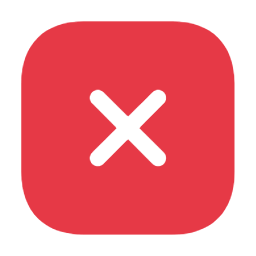
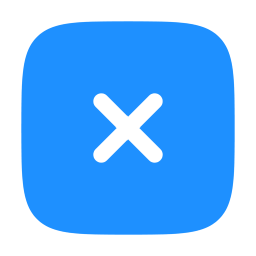
theme changed from red to blue

diff --git a/src/components/contact.jsx b/src/components/contact.jsx
@@ -17,20 +17,20 @@ const Contact = () => {
           d="M0,0V46.29c47.79,22.2,103.59,32.17,158,28,70.36-5.37,136.33-33.31,206.8-37.5C438.64,32.43,512.34,53.67,583,72.05c69.27,18,138.3,24.88,209.4,13.08,36.15-6,69.85-17.84,104.45-29.34C989.49,25,1113-14.29,1200,52.47V0Z"
           opacity=".25"
           class="shape-fill"
-          fill="#E63946"
+          fill="#1E90FF"
           fill-opacity="1"
         ></path>
         <path
           d="M0,0V15.81C13,36.92,27.64,56.86,47.69,72.05,99.41,111.27,165,111,224.58,91.58c31.15-10.15,60.09-26.07,89.67-39.8,40.92-19,84.73-46,130.83-49.67,36.26-2.85,70.9,9.42,98.6,31.56,31.77,25.39,62.32,62,103.63,73,40.44,10.79,81.35-6.69,119.13-24.28s75.16-39,116.92-43.05c59.73-5.85,113.28,22.88,168.9,38.84,30.2,8.66,59,6.17,87.09-7.5,22.43-10.89,48-26.93,60.65-49.24V0Z"
           opacity=".5"
           class="shape-fill"
-          fill="#E63946"
+          fill="#1E90FF"
           fill-opacity="1"
         ></path>
         <path
           d="M0,0V5.63C149.93,59,314.09,71.32,475.83,42.57c43-7.64,84.23-20.12,127.61-26.46,59-8.63,112.48,12.24,165.56,35.4C827.93,77.22,886,95.24,951.2,90c86.53-7,172.46-45.71,248.8-84.81V0Z"
           class="shape-fill"
-          fill="#E63946"
+          fill="#1E90FF"
           fill-opacity="1"
         ></path>
       </svg>
@@ -48,20 +48,20 @@ const Contact = () => {
           d="M0,0V46.29c47.79,22.2,103.59,32.17,158,28,70.36-5.37,136.33-33.31,206.8-37.5C438.64,32.43,512.34,53.67,583,72.05c69.27,18,138.3,24.88,209.4,13.08,36.15-6,69.85-17.84,104.45-29.34C989.49,25,1113-14.29,1200,52.47V0Z"
           opacity=".25"
           class="shape-fill"
-          fill="#E63946"
+          fill="#1E90FF"
           fill-opacity="1"
         ></path>
         <path
           d="M0,0V15.81C13,36.92,27.64,56.86,47.69,72.05,99.41,111.27,165,111,224.58,91.58c31.15-10.15,60.09-26.07,89.67-39.8,40.92-19,84.73-46,130.83-49.67,36.26-2.85,70.9,9.42,98.6,31.56,31.77,25.39,62.32,62,103.63,73,40.44,10.79,81.35-6.69,119.13-24.28s75.16-39,116.92-43.05c59.73-5.85,113.28,22.88,168.9,38.84,30.2,8.66,59,6.17,87.09-7.5,22.43-10.89,48-26.93,60.65-49.24V0Z"
           opacity=".5"
           class="shape-fill"
-          fill="#E63946"
+          fill="#1E90FF"
           fill-opacity="1"
         ></path>
         <path
           d="M0,0V5.63C149.93,59,314.09,71.32,475.83,42.57c43-7.64,84.23-20.12,127.61-26.46,59-8.63,112.48,12.24,165.56,35.4C827.93,77.22,886,95.24,951.2,90c86.53-7,172.46-45.71,248.8-84.81V0Z"
           class="shape-fill"
-          fill="#E63946"
+          fill="#1E90FF"
           fill-opacity="1"
         ></path>
       </svg>

diff --git a/public/tailwind.css b/public/tailwind.css
@@ -1053,7 +1053,7 @@ video {
 
 .border-primary{
   --tw-border-opacity: 1;
-  border-color: rgb(230 57 70 / var(--tw-border-opacity));
+  border-color: rgb(30 144 255 / var(--tw-border-opacity));
 }
 
 .border-transparent{
@@ -1082,7 +1082,7 @@ video {
 
 .bg-primary{
   --tw-bg-opacity: 1;
-  background-color: rgb(230 57 70 / var(--tw-bg-opacity));
+  background-color: rgb(30 144 255 / var(--tw-bg-opacity));
 }
 
 .bg-transparent{
@@ -1303,7 +1303,7 @@ video {
 
 .text-primary{
   --tw-text-opacity: 1;
-  color: rgb(230 57 70 / var(--tw-text-opacity));
+  color: rgb(30 144 255 / var(--tw-text-opacity));
 }
 
 .text-text{
@@ -1397,7 +1397,7 @@ video {
 
 .placeholder\:text-primary::placeholder{
   --tw-text-opacity: 1;
-  color: rgb(230 57 70 / var(--tw-text-opacity));
+  color: rgb(30 144 255 / var(--tw-text-opacity));
 }
 
 .placeholder\:opacity-50::placeholder{
@@ -1406,7 +1406,7 @@ video {
 
 .hover\:bg-secondary:hover{
   --tw-bg-opacity: 1;
-  background-color: rgb(214 40 40 / var(--tw-bg-opacity));
+  background-color: rgb(0 191 255 / var(--tw-bg-opacity));
 }
 
 .hover\:bg-white:hover{

diff --git a/tailwind.config.js b/tailwind.config.js
@@ -12,8 +12,8 @@ module.exports = {
     },
     extend: {
       colors: {
-        primary: '#E63946',
-        secondary: '#D62828',
+        primary: '#1E90FF',
+        secondary: '#00BFFF',
         background: '#FFFFFF',
         text: '#000000',
         accent: '#F5F5F5',
